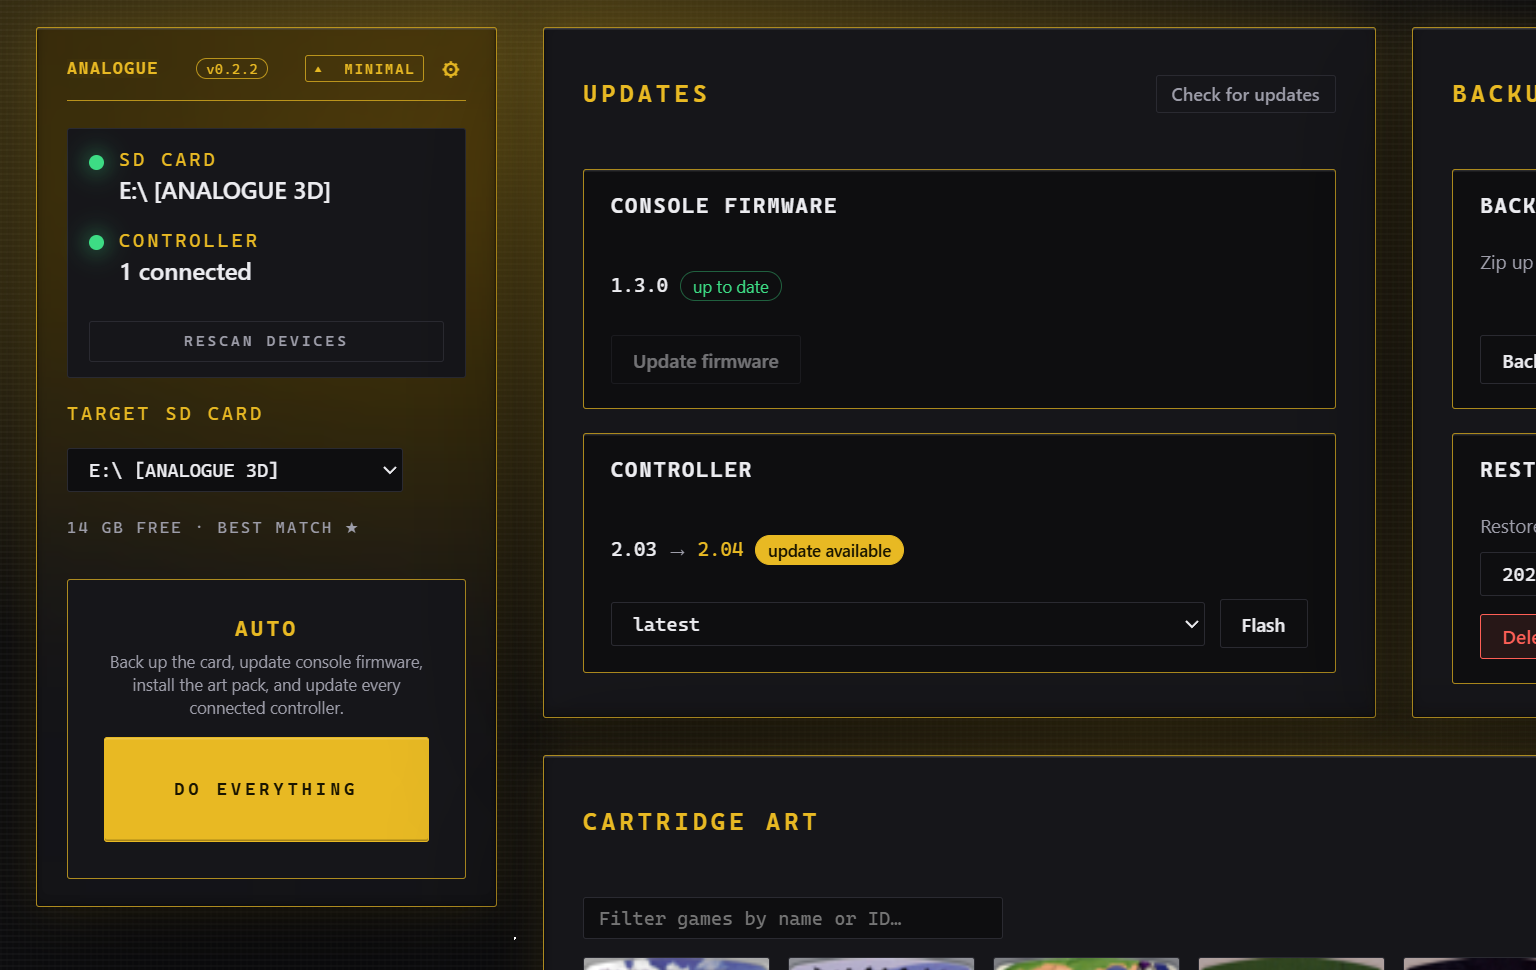
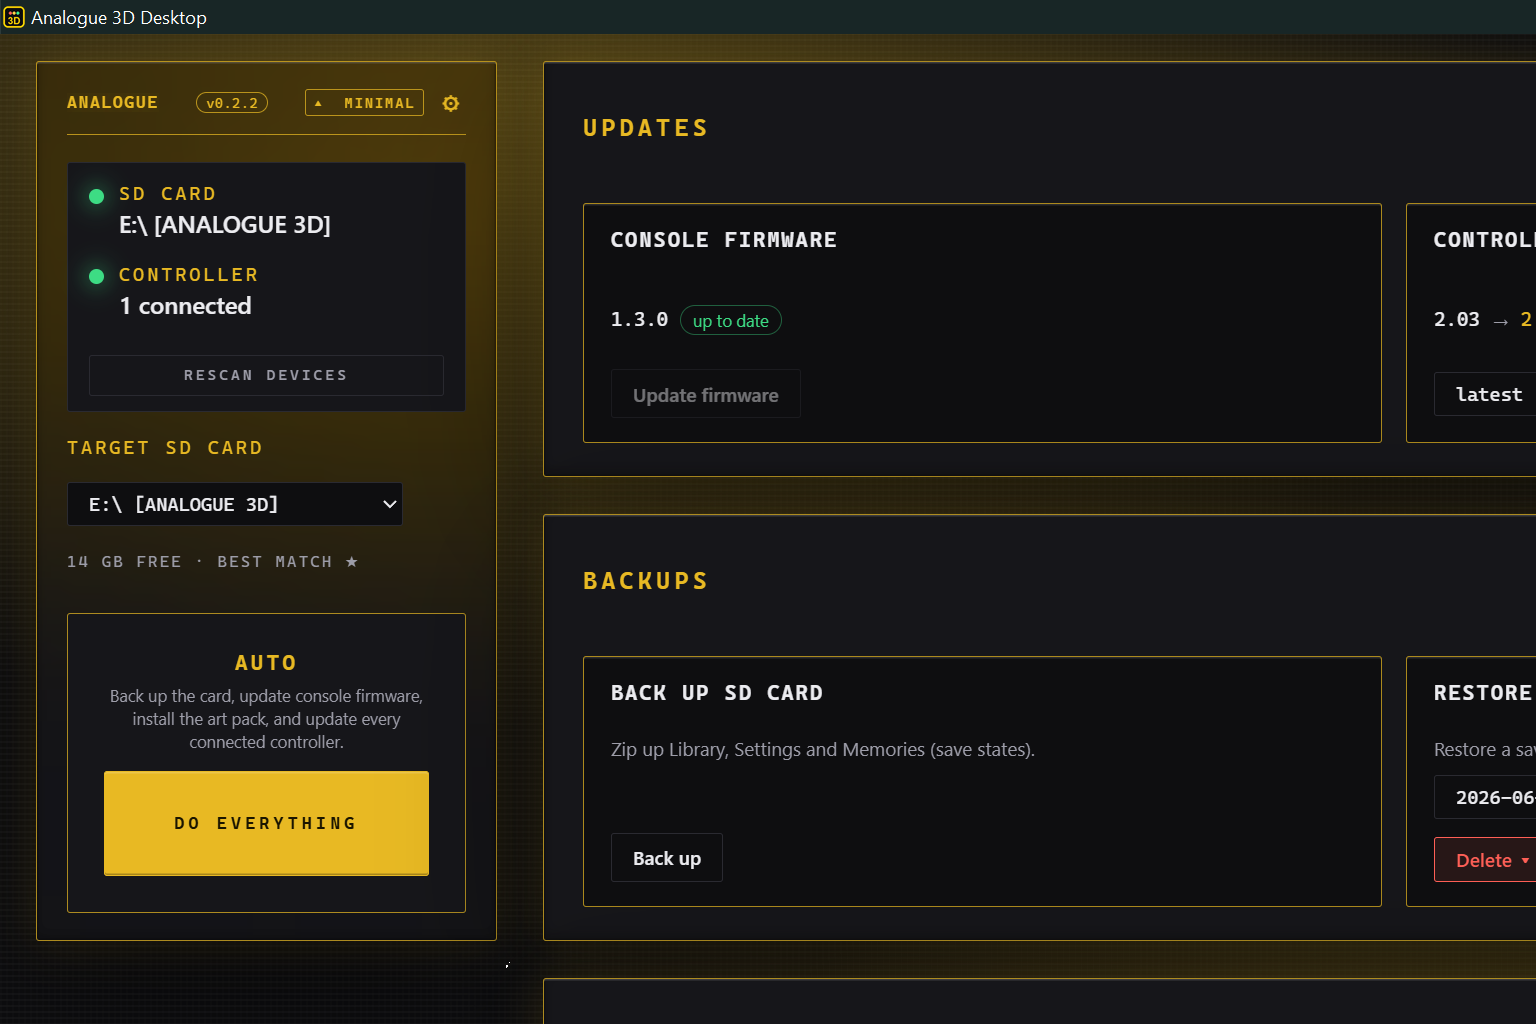
Fix BACKUPS section getting cut off at typical fullscreen + new hero
Root cause of the "screenshots blow" complaint: the .adv-main grid
was running 2-column (UPDATES + BACKUPS side-by-side) until viewport
<= 1200px CSS. The user's display gives a 1536px CSS viewport at
their DPI scaling, so the 2-column layout was firing — but at 1536px
after rail width + paddings, each column was too narrow to fit its
contents. BACKUPS was getting clipped on the right.

Bumped the collapse breakpoint to <= 1700px CSS so the typical
"maximized at 100-125% scaling on a 1080-1440 monitor" case stacks
UPDATES and BACKUPS vertically with each at full width. Inner
.grid2 (CONSOLE FIRMWARE + CONTROLLER, BACK UP SD CARD + RESTORE /
CLEAN) still uses auto-fit so it stays 2-up when there's room.

Also captured a clean fullscreen-primary-monitor shot for main.png
showing the rail + stacked UPDATES + BACKUPS + start of CARTRIDGE
ART. PNG is 1536x1024, the user's actual viewport.

diff --git a/web/style.css b/web/style.css
@@ -1066,13 +1066,13 @@ body.mode-minimal .app {
   background: var(--panel);
   border: 1px solid var(--gold-line);
   border-radius: 2px;
-  padding: clamp(28px, 3vw, 52px) clamp(32px, 4vw, 64px) clamp(24px, 2vw, 40px);
+  padding: clamp(20px, 2vw, 32px) clamp(24px, 2.4vw, 40px) clamp(18px, 1.6vw, 28px);   /* trimmed - was 28-52/32-64/24-40, panel was too tall for ~1000px CSS viewports */
   box-shadow:
     0 0 0 1px rgba(0, 0, 0, .4) inset,
     0 32px 120px rgba(0, 0, 0, .6);
   display: flex;
   flex-direction: column;
-  gap: clamp(24px, 2.4vw, 36px);
+  gap: clamp(16px, 1.4vw, 22px);            /* trimmed gap so 3 cards + header + button fit in typical fullscreen */
 }
 
 .min-header {
@@ -1124,10 +1124,10 @@ body.mode-minimal .app {
   background: var(--panel-2);
   border: 1px solid var(--border);     /* was --gold-line at 35% opacity — vanished against the panel; --border is theme-stable and reads as a discrete instrument module (border-pro design pass) */
   border-radius: 2px;
-  padding: clamp(18px, 1.6vw, 28px) clamp(20px, 1.8vw, 30px);
+  padding: clamp(14px, 1.3vw, 22px) clamp(16px, 1.5vw, 24px);   /* trimmed — was 18-28 / 20-30 */
   display: flex;
   flex-direction: column;
-  gap: clamp(10px, 1vw, 14px);
+  gap: clamp(8px, 0.7vw, 12px);
   min-width: 0;
   /* Removed overflow:hidden — was clipping the lit-port drop-shadow into a
      square. Long values are already truncated by .min-instr-value's own
@@ -1523,8 +1523,8 @@ body.mode-tinker .block input[type="text"] {
 }
 body.mode-tinker .restore-row { min-width: 0; flex-wrap: wrap; }
 body.mode-tinker .restore-row > select { flex: 1 1 auto; min-width: 160px; }   /* enough to fit full "2026-05-31 12:34" backup date instead of collapsing to "2..." */
-@media (max-width: 1200px) {
-  body.mode-tinker .adv-main { grid-template-columns: 1fr; }
+@media (max-width: 1700px) {
+  body.mode-tinker .adv-main { grid-template-columns: 1fr; }   /* was max-width: 1200px - too aggressive 2-col, BACKUPS got cut off at 1536px CSS viewports */
 }
 /* On true ultrawides, let Updates+Backups+a third cell share a row. */
 @media (min-width: 3000px) {
